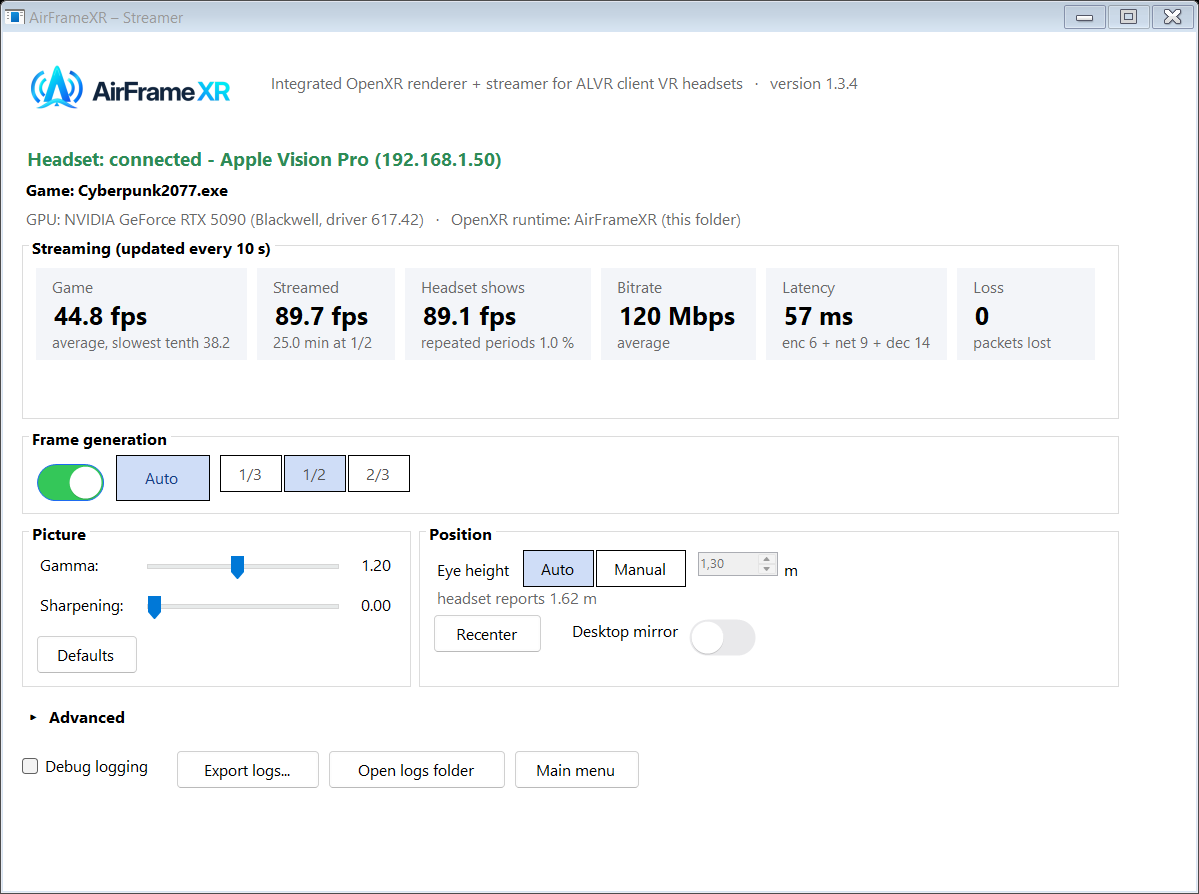
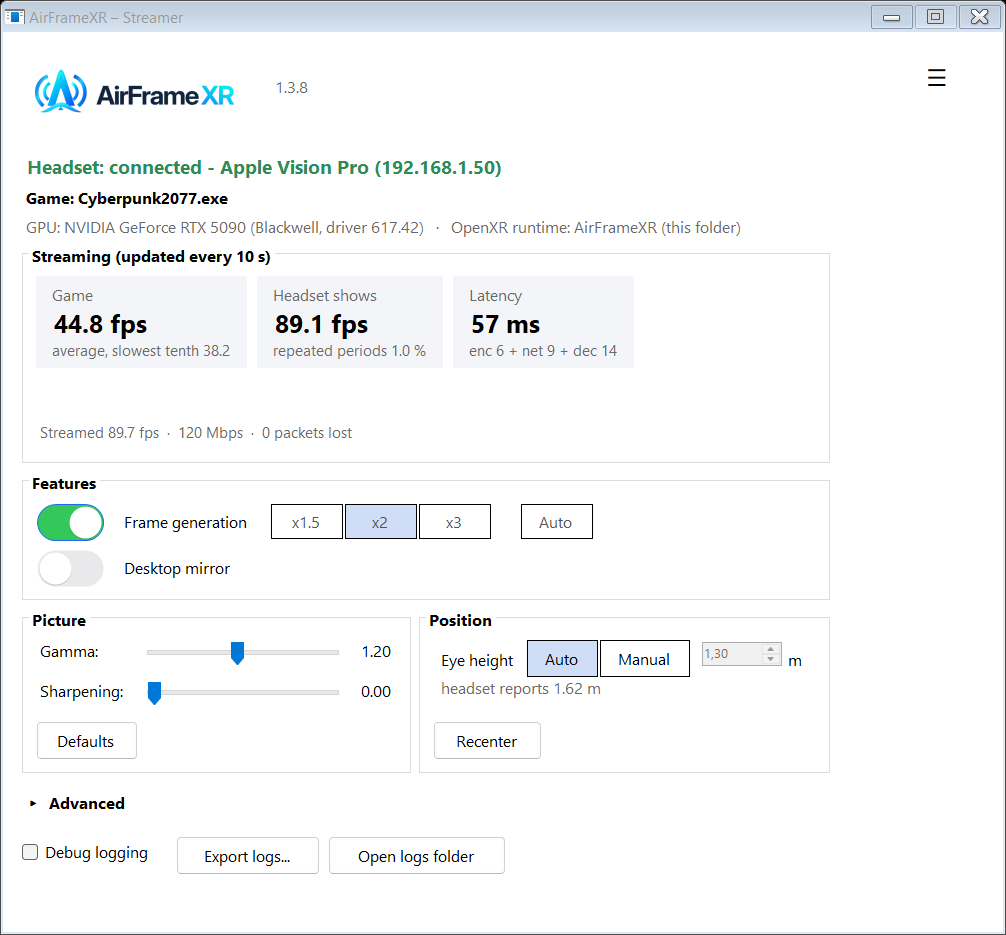
README: the new UI screenshots, OpenComposite shipped (section rewritten, credits, licence note); streamer: shorter "headset detected" lines
The full ui_matrix passes at the nine sizes (0 FAIL; the one warning, streamer-headset-seen, is fixed by shortening the
"Headset: detected" line to what the window is sized for). The launcher demo shows both switches on.

diff --git a/tools/gui/AirFrameXR.cs b/tools/gui/AirFrameXR.cs
@@ -808,7 +808,7 @@ namespace AirFrameXR
                         lastSeen = DateTime.UtcNow;
                         var seenName = S(d, "hostname"); var seenIp = S(d, "ip");
                         var paired = pairedName.Length > 0 && (seenName == settings.HeadsetHost || seenIp == pairedIp);
-                        SetLink(Link.Orange, paired ? $"Headset: detected - {pairedName} seen at {seenIp}, waiting for it to connect..." : $"Headset: detected - {seenName} seen at {seenIp}, not paired (click Find headset)");
+                        SetLink(Link.Orange, paired ? $"Headset: detected - {pairedName} seen at {seenIp}, waiting to connect" : $"Headset: detected - {seenName} at {seenIp}, not paired");
                         if (paired && seenIp.Length > 0 && seenIp != settings.HeadsetIp) { settings.HeadsetIp = seenIp; settings.Save(); pairedIp = seenIp; }
                     }
                     break;
@@ -962,7 +962,7 @@ namespace AirFrameXR
             var tileBack = tiles.Select(t => (t, t.Value, t.Note, t.ValueColor)).ToList();
             try
             {
-                headset.Text = "Headset: connected - Apple Vision Pro of a person with a long name (192.168.100.123)";
+                headset.Text = "Headset: connected - Apple Vision Pro of a person with a long name (192.168.100.123)";   // the longest line the headset row can show (the "detected" lines are shorter)
                 game.Text = "Game: Cyberpunk2077.exe (last: Cyberpunk2077.exe, 123.4 min)";
                 heightReport.Text = "headset reports 1.62 m";
                 stats.Text = "Host repeats 12.3 %, skipped 12.3 %.  Next time: x2.";

diff --git a/tools/gui/Launcher.cs b/tools/gui/Launcher.cs
@@ -158,7 +158,7 @@ namespace AirFrameXR
             // One switch; informational, never "Needs attention". Not shown where the folder has no OpenComposite (a developer folder).
             if (demoReady || OpenComposite.Installed || OpenComposite.Active)
             {
-                bool oc = !demoReady && OpenComposite.Active;
+                bool oc = demoReady || OpenComposite.Active;   // the demo (tests, README screenshot) shows it on
                 lines.Add(ToggleRow("\u2713", oc ? Color.SeaGreen : Color.White, oc ? "OpenVR: OpenComposite OpenXR translation" : "OpenVR: SteamVR", oc, true, on => OcSwitch(on),
                     "On: OpenVR games load OpenComposite, which translates them to OpenXR so they run on AirFrameXR without SteamVR. Off: they use SteamVR again. Takes effect at the next game start."));
             }

diff --git a/README.md b/README.md
@@ -33,7 +33,7 @@ For the Quest there is a dedicated **AirFrameXR Quest client** ([releases](https
 | Encoding | General-purpose ALVR configuration | NVIDIA-specific NVENC HEVC 10-bit path |
 | Frame generation | Requires a separate approach if desired | Optional, built into the frame pipeline with NVIDIA Optical Flow and edge-aware synthesis |
 | Headset | ALVR client | **Same ALVR client — no custom headset app required** |
-| Compatibility priority | Broad SteamVR ecosystem | Lean OpenXR-first path; **SteamVR/OpenVR-only titles are not supported directly** (try [OpenComposite](#openvr-only-games-opencomposite)) |
+| Compatibility priority | Broad SteamVR ecosystem | Lean OpenXR-first path; **OpenVR-only titles go through the bundled [OpenComposite](#openvr-only-games-opencomposite) translation** (one switch in the launcher), the rest need SteamVR |
 
 ### Why build it this way?
 
@@ -89,16 +89,15 @@ already open source [ALVR](https://github.com/alvr-org/ALVR) as the infrastructu
 > to run every VR game. **For a game that does not work, use SteamVR + ALVR**: SteamVR is excellent at compatibility and at
 > configurability, and this project does not try to compete with that. In testing, the vast majority of **UEVR games**, the
 > **Luke Ross mods** and **native OpenXR / VR games** worked, but some games still have controller problems, crashes or both.
-> Not supported directly: SteamVR/OpenVR-only games. Try [OpenComposite](#openvr-only-games-opencomposite) first, otherwise they need SteamVR.
+> OpenVR-only games: turn on the launcher's **OpenComposite (OpenVR) translation** switch ([below](#openvr-only-games-opencomposite)); a game it cannot run needs SteamVR.
 
 #### OpenVR-only games: OpenComposite
 
-AirFrameXR only speaks OpenXR and has no OpenVR support. For older OpenVR games we recommend
-[OpenComposite](https://github.com/QuestCraftPlusPlus/OpenComposite), which translates OpenVR calls to OpenXR. In our tests it worked
-on about 60 % of the "old" OpenVR games we tried. Use its Runtime Switcher to select **OpenComposite (OpenXR)**; to go back, press
-**Switch to SteamVR** (or start SteamVR from Steam's VR button). Games that still fail need SteamVR + stock ALVR.
+AirFrameXR itself only speaks OpenXR. For older OpenVR games it ships [OpenComposite](https://gitlab.com/znixian/OpenOVR) (GPL-3.0-or-later; also on [GitHub](https://github.com/QuestCraftPlusPlus/OpenComposite)), which translates OpenVR calls to OpenXR, so those games run on AirFrameXR without SteamVR. In our tests it worked
+on about 60 % of the "old" OpenVR games we tried. In the launcher, turn on **OpenComposite (OpenVR) translation**: OpenVR games then load the copy in the `opencomposite\` folder of the package; turn it off and the
+system-wide OpenVR runtime goes back to what it was (SteamVR). It takes effect at the next game start. Games that still fail need SteamVR + stock ALVR.
 
-<p align="center"><img src="docs/images/opencomposite-switcher.jpg" alt="OpenComposite Runtime Switcher showing the status OpenComposite (OpenXR) and a Switch to SteamVR button" width="420"></p>
+OpenComposite is a separate program: its two DLLs ship unmodified with the source they were built from and the licence texts (`opencomposite\SOURCE.txt`, `docs\licenses\`); AirFrameXR does not link to them, it only changes the OpenVR runtime path.
 
 How it is built: the headset's ALVR app sees an ordinary ALVR 20.14.1 server; in between there is no SteamVR compositor, no extra frame copies
 between processes, and an encode path written for NVENC only.
@@ -127,17 +126,17 @@ flowchart LR
 The windows, at 1080p and 125 % scale, rendered by the project's own UI harness with demo data (a made-up game history and headset, no real person's data).
 Regenerate them with `python3 harness/readme_screens.py`.
 
-**One front door.** Double-click `AirFrameXR.exe`: a card per tool, the OpenXR runtime switch (it switches back, too), and reviews of the OpenXR layers and the firewall rules. Right under the Streamer, the **field of view** card, two radio buttons: *Stock vendor view (Apple, Meta)*, the default, or *FOV restriction* with one of your profiles (*AVP optimized* is always there), and the game renders only that part of the picture (fewer pixels, a faster game). It is meant to be set once and forgotten: calibrating lives in *Manage profiles and calibrate...*. A change needs a streamer restart: the card says so in red and closes the streamer for you (it never starts it again, so you can go on ticking and start it when you are done).
+**One front door.** Double-click `AirFrameXR.exe`: a card per tool (the streamer, game statistics, settings, the advanced video and performance settings, diagnostics and headset setup) and, at the bottom, two small switches: **OpenXR runtime** (AirFrameXR, or back to the one you had) and **OpenComposite (OpenVR) translation** (OpenVR games on AirFrameXR, or back to SteamVR). Reviews of the OpenXR layers and the firewall rules appear there when something needs attention. The field of view the games are told (stock vendor view, or a restriction from one of your profiles, with its calibration) is at the top of the advanced settings: set once and forgotten.
 
-<p align="center"><img src="docs/images/ui_launcher.png" width="520" alt="The launcher: Streamer, the FOV restriction and calibration card with its profile list, Game statistics, Settings, Advanced video and performance settings, Diagnostics and headset setup, and the status card"></p>
+<p align="center"><img src="docs/images/ui_launcher.png" width="520" alt="The launcher: Streamer, Game statistics, Settings, Advanced video and performance settings, Diagnostics and headset setup, and the two switches: OpenXR runtime AirFrameXR and OpenVR through OpenComposite"></p>
 
-**The streamer.** Live numbers as tiles (the game's fps, what is streamed, what the headset shows, bitrate, latency split, loss), display settings, frame generation with its rate, Recenter, and the optional desktop mirror.
+**The streamer.** Three live tiles (the game's fps, what the headset shows, the latency), a line under them with the streamed fps, the bitrate and the packets lost, then **Features**: frame generation (x1.5, x2 or x3, or Auto) and the optional desktop mirror, aligned switches; gamma and sharpening, eye height and Recenter. The menu in the header (the three bars) opens the main menu, the game statistics and the advanced settings.
 
-<p align="center"><img src="docs/images/ui_streamer.png" width="640" alt="The streamer window with live statistics tiles and the frame generation controls"></p>
+<p align="center"><img src="docs/images/ui_streamer.png" width="640" alt="The streamer window: three live tiles and a line of numbers, the Features box with frame generation x1.5 / x2 / x3 and the desktop mirror, picture and position"></p>
 
-**What happened in each game.** One record per game: the last sessions with fps, latency, network and GPU; export a log zip.
+**What happened in each game.** One record per game. The last session is drawn from the game (left) to the headset (right): its fps, the frame generation, encode, network and decode times, what the headset shows, and the latency split into its parts. Trend charts over the last sessions (fps, latency, repeated frames), the last run over time from the general log (fps, generation lag, GPU memory, how early frames arrive), the session history, and a log export.
 
-<p align="center"><img src="docs/images/ui_performance.png" width="720" alt="Logs and performance: the games played, a session's statistics as tiles, the session history"></p>
+<p align="center"><img src="docs/images/ui_performance.png" width="860" alt="Game statistics: a session drawn from the game to the headset as six stages with the latency split, trend charts over the sessions, and the last run over time from the log"></p>
 
 **Diagnose, with suggestions.** The wizard's checks on your settings as they are, and a list of suggestions taken from [docs/PERFORMANCE_KNOBS.md](docs/PERFORMANCE_KNOBS.md): each says what it measured (this run's tests, or your logs and game records) and which knob it is about. Nothing changes unless you press a button.
 
@@ -249,7 +248,7 @@ What changed in each version: [docs/releases/](docs/releases/) (1.0 onward; earl
   discovery/pairing with the stock app.
 - **Known issues**:
   - Frame generation is still experimental.
-  - Some OpenXR games need the SteamVR + ALVR fallback. OpenVR games are not supported natively and none is planned; OpenComposite worked on about 60 % of the old OpenVR games we tried (see above).
+  - Some OpenXR games need the SteamVR + ALVR fallback. OpenVR games are not supported natively: the bundled OpenComposite translation worked on about 60 % of the old OpenVR games we tried (see above); the rest need SteamVR.
   - No USB streaming, except when bridged with ALVR's own tools.
   - HEVC encoding is baked in for maximum split-encoding performance: no H.264 or AV1.
   - On the Vision Pro, in heavy games 5-10 % of frames carry the same tracking timestamp as the previous one and the headset skips them (shown fps a little under the host
@@ -413,16 +412,19 @@ AirFrameXR stands on the shoulders of giants: the projects below made it possibl
 - **[VectorXR](https://github.com/DienerTech/vectorxr)** (MPL-2.0) by DienerTech: the edge-aware synthesis (vector median, source-solved
   flow, per-pixel candidate choice at motion boundaries, doubtful motion shrinking toward the real frame) was studied from its code and
   re-implemented here.
+- **[OpenComposite](https://gitlab.com/znixian/OpenOVR)** (GPL-3.0-or-later) by znixian and its contributors: the OpenVR-to-OpenXR translation that lets
+  old OpenVR games run on AirFrameXR without SteamVR. Its project's own prebuilt DLLs ship unmodified in `opencomposite\` with their source and
+  licences; they are separate programs (not linked into AirFrameXR), loaded by the games when the launcher's OpenVR switch is on.
 - NVIDIA Video Codec SDK and Optical Flow SDK headers (MIT). cgltf (MIT), stb_image (public domain / MIT), Draco (Apache-2.0, offline converter only).
 - Benchmark scene: "Littlest Tokyo" by Glen Fox ([glenatron](https://sketchfab.com/glenatron)), CC-BY-4.0, converted and placed
   in a textured room. Its music: "Sakura Breeze" by [Roa Music](https://soundcloud.com/roa_music1031), royalty-free music from
   [free-stock-music.com](https://www.free-stock-music.com), CC BY 3.0 ([licence](https://creativecommons.org/licenses/by/3.0/deed.en_US)), shortened and re-encoded.
 
 Details: [THIRD_PARTY_NOTICES.md](THIRD_PARTY_NOTICES.md). AirFrameXR is not affiliated with or endorsed by the ALVR project,
-Apple, NVIDIA, Virtual Desktop, OFXR-Bridge or VectorXR. Apple Vision Pro and visionOS are trademarks of Apple Inc.
+Apple, NVIDIA, Virtual Desktop, OFXR-Bridge, VectorXR or OpenComposite. Apple Vision Pro and visionOS are trademarks of Apple Inc.
 
 ## License
-MIT, see [LICENSE](LICENSE). Third-party components keep their own licences ([THIRD_PARTY_NOTICES.md](THIRD_PARTY_NOTICES.md)).
+MIT, see [LICENSE](LICENSE). Third-party components keep their own licences ([THIRD_PARTY_NOTICES.md](THIRD_PARTY_NOTICES.md)); OpenComposite, shipped as separate files, is GPL-3.0-or-later (`docs\licenses\OpenComposite-LICENSE.txt`).
 
 ## Documentation
 
